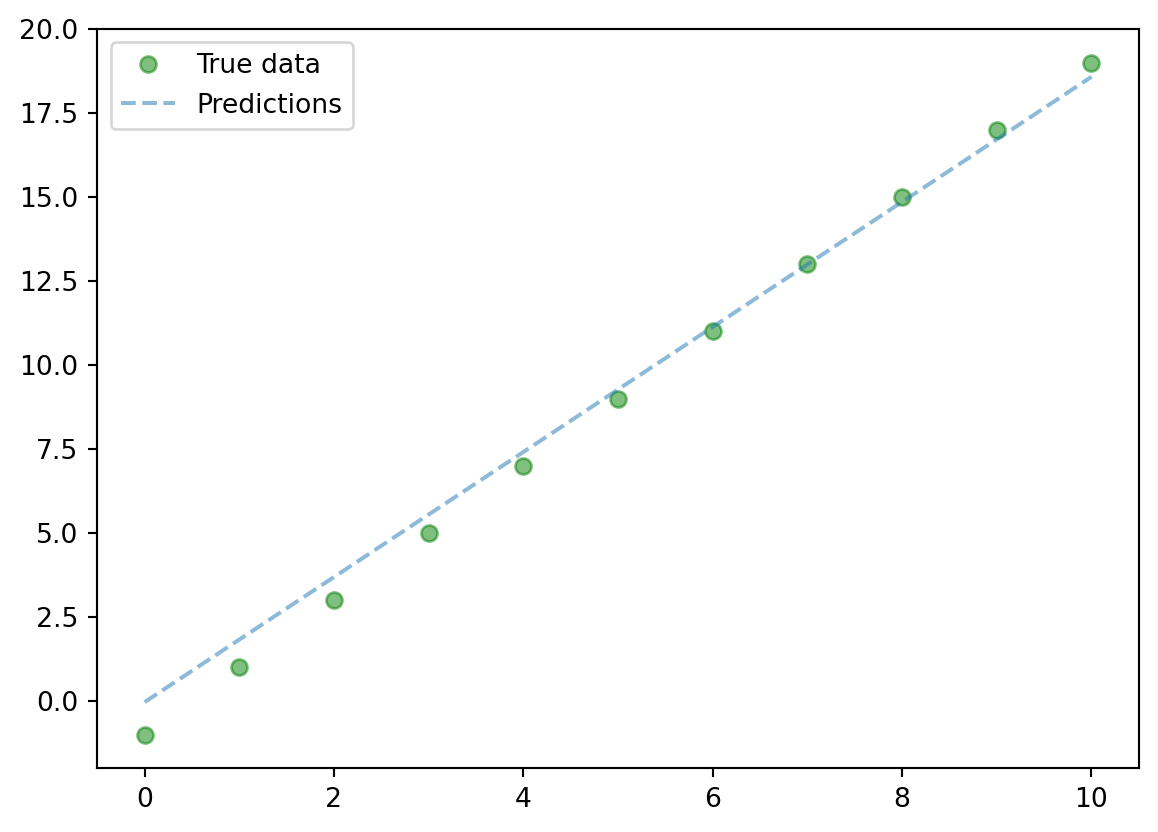
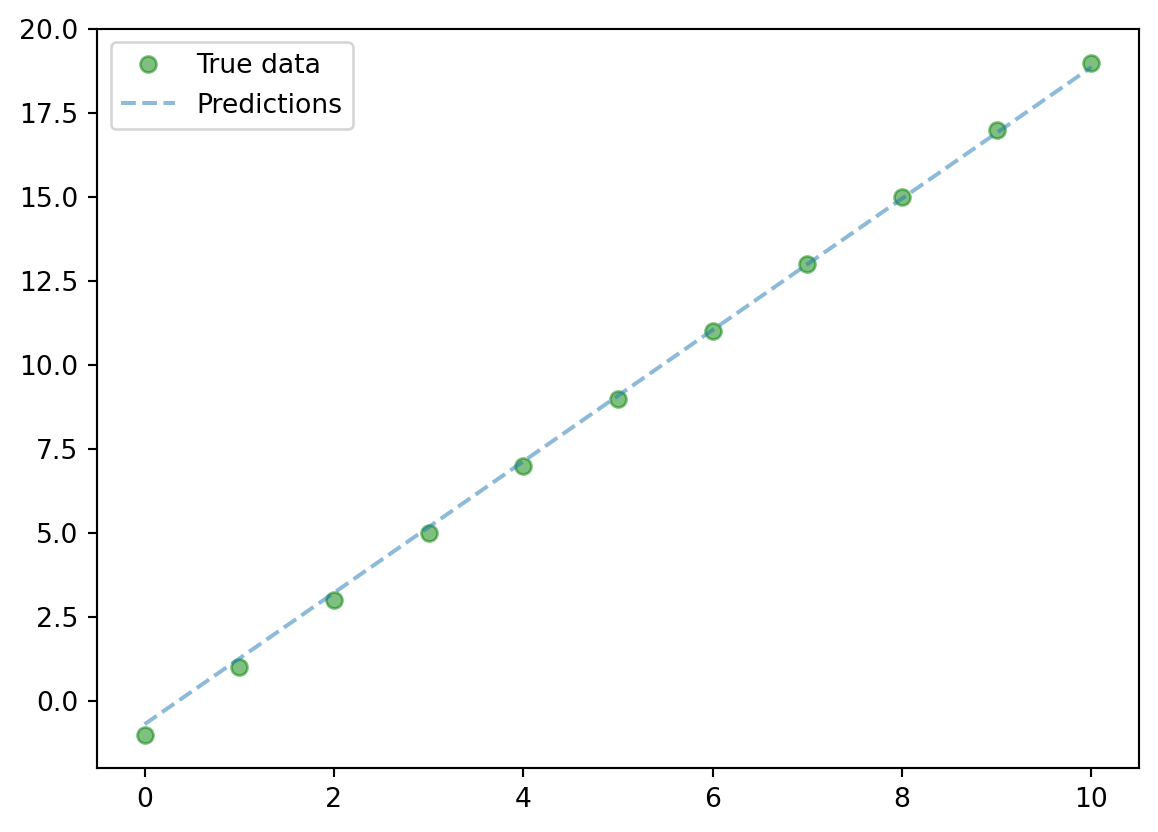
cw1

diff --git a/docs/lectures/cw_w2.html b/docs/lectures/cw_w2.html
@@ -355,7 +355,7 @@ window.Quarto = {
 \]</span></p>
 <section id="pytorch-regresja-liniowa" class="level3">
 <h3 class="anchored" data-anchor-id="pytorch-regresja-liniowa">PyTorch Regresja liniowa</h3>
-<div id="5350293c" class="cell" data-execution_count="1">
+<div id="c8a4613b" class="cell" data-execution_count="1">
 <div class="sourceCode cell-code" id="cb1"><pre class="sourceCode python code-with-copy"><code class="sourceCode python"><span id="cb1-1"><a href="#cb1-1" aria-hidden="true" tabindex="-1"></a><span class="im">import</span> torch</span>
 <span id="cb1-2"><a href="#cb1-2" aria-hidden="true" tabindex="-1"></a><span class="im">import</span> numpy <span class="im">as</span> np</span>
 <span id="cb1-3"><a href="#cb1-3" aria-hidden="true" tabindex="-1"></a><span class="im">import</span> matplotlib.pyplot <span class="im">as</span> plt</span>
@@ -423,16 +423,16 @@ window.Quarto = {
 <div class="cell-output cell-output-stdout">
 <pre><code>dane: [ 0  1  2  3  4  5  6  7  8  9 10]
 target: [-1, 1, 3, 5, 7, 9, 11, 13, 15, 17, 19]
-epoch: 10, loss = 0.7389
-epoch: 20, loss = 0.6604
-epoch: 30, loss = 0.5903
-epoch: 40, loss = 0.5276
-epoch: 50, loss = 0.4715
-epoch: 60, loss = 0.4215
-epoch: 70, loss = 0.3767
-epoch: 80, loss = 0.3367
-epoch: 90, loss = 0.3009
-epoch: 100, loss = 0.2690</code></pre>
+epoch: 10, loss = 0.0742
+epoch: 20, loss = 0.0663
+epoch: 30, loss = 0.0593
+epoch: 40, loss = 0.0530
+epoch: 50, loss = 0.0474
+epoch: 60, loss = 0.0423
+epoch: 70, loss = 0.0378
+epoch: 80, loss = 0.0338
+epoch: 90, loss = 0.0302
+epoch: 100, loss = 0.0270</code></pre>
 </div>
 <div class="cell-output cell-output-display">
 <div>
@@ -445,7 +445,7 @@ epoch: 100, loss = 0.2690</code></pre>
 </section>
 <section id="pytorch-regresja-logistyczna" class="level3">
 <h3 class="anchored" data-anchor-id="pytorch-regresja-logistyczna">PyTorch Regresja logistyczna</h3>
-<div id="13e6a5af" class="cell" data-execution_count="2">
+<div id="a1047a88" class="cell" data-execution_count="2">
 <div class="sourceCode cell-code" id="cb3"><pre class="sourceCode python code-with-copy"><code class="sourceCode python"><span id="cb3-1"><a href="#cb3-1" aria-hidden="true" tabindex="-1"></a><span class="im">import</span> torch</span>
 <span id="cb3-2"><a href="#cb3-2" aria-hidden="true" tabindex="-1"></a><span class="im">import</span> numpy <span class="im">as</span> np</span>
 <span id="cb3-3"><a href="#cb3-3" aria-hidden="true" tabindex="-1"></a><span class="im">from</span> sklearn.datasets <span class="im">import</span> make_classification</span>
@@ -503,15 +503,15 @@ epoch: 100, loss = 0.2690</code></pre>
 <span id="cb3-55"><a href="#cb3-55" aria-hidden="true" tabindex="-1"></a>    acc <span class="op">=</span> y_predicted_cls.eq(y_train).<span class="bu">sum</span>() <span class="op">/</span> <span class="bu">float</span>(y_train.shape[<span class="dv">0</span>])  <span class="co"># accuracy</span></span>
 <span id="cb3-56"><a href="#cb3-56" aria-hidden="true" tabindex="-1"></a>    <span class="bu">print</span>(<span class="ss">f'accuracy = </span><span class="sc">{</span>acc<span class="sc">:.4f}</span><span class="ss">'</span>)</span></code><button title="Copy to Clipboard" class="code-copy-button"><i class="bi"></i></button></pre></div>
 <div class="cell-output cell-output-stdout">
-<pre><code>epoch: 25, loss = 0.5370
-epoch: 50, loss = 0.4984
-epoch: 75, loss = 0.4691
-epoch: 100, loss = 0.4462
-epoch: 125, loss = 0.4279
-epoch: 150, loss = 0.4129
-epoch: 175, loss = 0.4005
-epoch: 200, loss = 0.3901
-accuracy = 0.8660</code></pre>
+<pre><code>epoch: 25, loss = 0.7462
+epoch: 50, loss = 0.6449
+epoch: 75, loss = 0.5751
+epoch: 100, loss = 0.5256
+epoch: 125, loss = 0.4891
+epoch: 150, loss = 0.4614
+epoch: 175, loss = 0.4397
+epoch: 200, loss = 0.4223
+accuracy = 0.8627</code></pre>
 </div>
 </div>
 

diff --git a/docs/lectures/cw_w5.html b/docs/lectures/cw_w5.html
@@ -313,7 +313,7 @@ pre > code.sourceCode > span > a:first-child::before { text-decoration: underlin
 </header>
 
 
-<div id="9735fc34" class="cell" data-execution_count="1">
+<div id="38c7c4d2" class="cell" data-execution_count="1">
 <div class="sourceCode cell-code" id="cb1"><pre class="sourceCode python code-with-copy"><code class="sourceCode python"><span id="cb1-1"><a href="#cb1-1" aria-hidden="true" tabindex="-1"></a><span class="im">import</span> pennylane <span class="im">as</span> qml</span>
 <span id="cb1-2"><a href="#cb1-2" aria-hidden="true" tabindex="-1"></a><span class="im">import</span> torch</span>
 <span id="cb1-3"><a href="#cb1-3" aria-hidden="true" tabindex="-1"></a><span class="im">import</span> pandas <span class="im">as</span> pd </span>
@@ -348,7 +348,7 @@ pre > code.sourceCode > span > a:first-child::before { text-decoration: underlin
 </div>
 <section id="klasyczna-sieć-neuronowa" class="level2">
 <h2 class="anchored" data-anchor-id="klasyczna-sieć-neuronowa">klasyczna sieć neuronowa</h2>
-<div id="4d755327" class="cell" data-execution_count="2">
+<div id="7a2ca028" class="cell" data-execution_count="2">
 <div class="sourceCode cell-code" id="cb2"><pre class="sourceCode python code-with-copy"><code class="sourceCode python"><span id="cb2-1"><a href="#cb2-1" aria-hidden="true" tabindex="-1"></a><span class="kw">class</span> NN(torch.nn.Module):</span>
 <span id="cb2-2"><a href="#cb2-2" aria-hidden="true" tabindex="-1"></a></span>
 <span id="cb2-3"><a href="#cb2-3" aria-hidden="true" tabindex="-1"></a>    <span class="kw">def</span> <span class="fu">__init__</span>(<span class="va">self</span>, N_INPUT: <span class="bu">int</span>, N_OUTPUT: <span class="bu">int</span>):</span>

diff --git a/docs/lectures/cw_w3.html b/docs/lectures/cw_w3.html
@@ -302,7 +302,7 @@ pre > code.sourceCode > span > a:first-child::before { text-decoration: underlin
 <h3 class="anchored" data-anchor-id="iqc-introduction-to-quantum-computing">IQC: Introduction to Quantum Computing</h3>
 <p>Wykonaj pierwsze trzy ćwiczenia z sekcji wprowadzenie do obliczeń kwantowych.</p>
 <p>Solution l.1.1</p>
-<div id="234262f3" class="cell" data-execution_count="1">
+<div id="391bd5fd" class="cell" data-execution_count="1">
 <div class="sourceCode cell-code" id="cb1"><pre class="sourceCode python code-with-copy"><code class="sourceCode python"><span id="cb1-1"><a href="#cb1-1" aria-hidden="true" tabindex="-1"></a><span class="im">import</span> numpy <span class="im">as</span> np</span>
 <span id="cb1-2"><a href="#cb1-2" aria-hidden="true" tabindex="-1"></a></span>
 <span id="cb1-3"><a href="#cb1-3" aria-hidden="true" tabindex="-1"></a>ket_0 <span class="op">=</span> np.array([<span class="dv">1</span>, <span class="dv">0</span>])</span>
@@ -339,7 +339,7 @@ pre > code.sourceCode > span > a:first-child::before { text-decoration: underlin
 </div>
 </div>
 <p>Solution l.1.2</p>
-<div id="bf13bfe4" class="cell" data-execution_count="2">
+<div id="1cb718a8" class="cell" data-execution_count="2">
 <div class="sourceCode cell-code" id="cb3"><pre class="sourceCode python code-with-copy"><code class="sourceCode python"><span id="cb3-1"><a href="#cb3-1" aria-hidden="true" tabindex="-1"></a><span class="im">import</span> numpy <span class="im">as</span> np</span>
 <span id="cb3-2"><a href="#cb3-2" aria-hidden="true" tabindex="-1"></a></span>
 <span id="cb3-3"><a href="#cb3-3" aria-hidden="true" tabindex="-1"></a><span class="kw">def</span> inner_product(state_1, state_2):</span>
